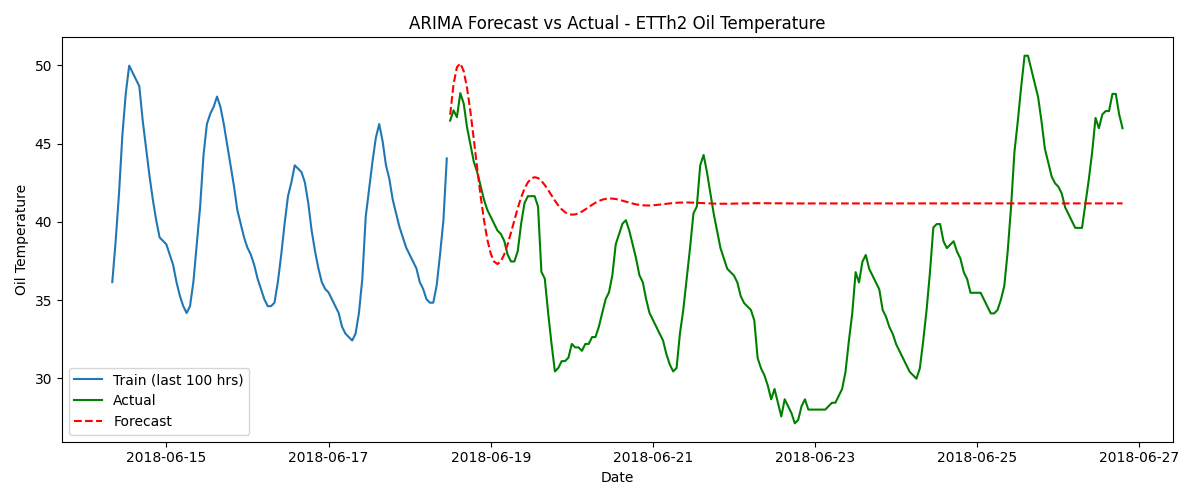
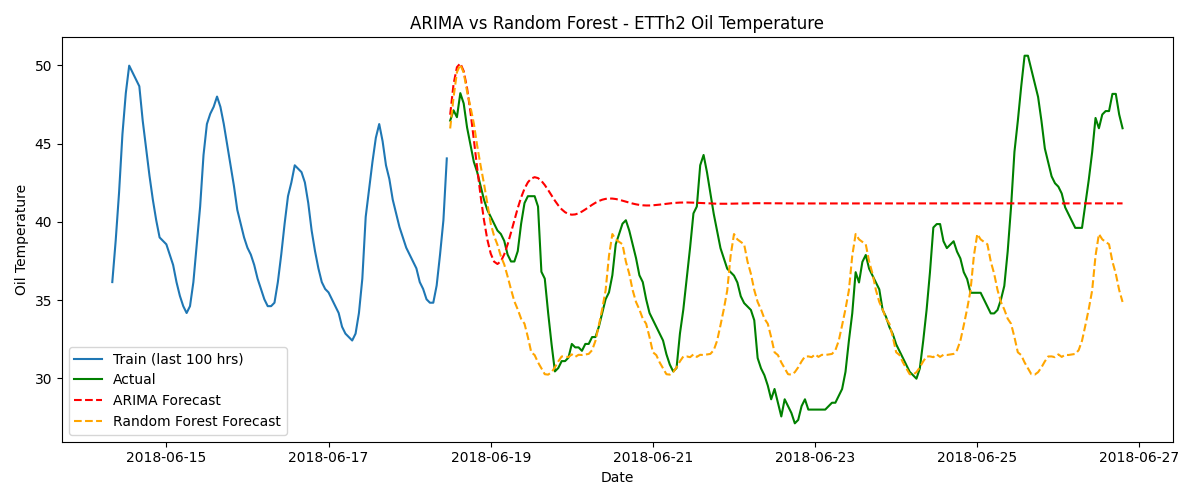
feat: arima vs RF comparison

diff --git a/main.py b/main.py
@@ -1,5 +1,6 @@
 import pandas as pd
 import matplotlib.pyplot as plt
+import numpy as np
 
 # Step 1: Load the data 
 df = pd.read_csv("data/ETTh2.csv")
@@ -50,34 +51,85 @@ print(model_fit.summary())
 
 # Step 4: Forecast the test period 
 # ask the model to predict as many steps ahead as we have test data for
-forecast = model_fit.forecast(steps=len(test))
+arima_forecast = model_fit.forecast(steps=len(test))
 
 # Step 5: Compare forecast vs actual 
 from sklearn.metrics import mean_absolute_error, mean_squared_error
-import numpy as np
 
-mae = mean_absolute_error(test, forecast)
-rmse = np.sqrt(mean_squared_error(test, forecast))
+arima_mae = mean_absolute_error(test, arima_forecast)
+arima_rmse = np.sqrt(mean_squared_error(test, arima_forecast))
 
-print(f"MAE  (avg error size):        {mae:.3f}")
-print(f"RMSE (penalizes big misses):  {rmse:.3f}")
+print(f"ARIMA MAE  (avg error size):        {arima_mae:.3f}")
+print(f"ARIMA RMSE (penalizes big misses):  {arima_rmse:.3f}")
 
-# save the numbers to a simple text file so we don't lose them
+# Step 6: Random Forest on the same data 
+from sklearn.ensemble import RandomForestRegressor
+
+# random forest can't take a raw time series, so we turn past values into
+# input columns (lag features) it can learn from
+n_lags = 5
+
+
+def make_lag_features(series, n_lags):
+    feat_df = pd.DataFrame({"y": series})
+    for lag in range(1, n_lags + 1):
+        feat_df[f"lag_{lag}"] = feat_df["y"].shift(lag)
+    return feat_df.dropna()
+
+
+feat_df = make_lag_features(ot_subset, n_lags)
+X = feat_df.drop(columns="y")
+y = feat_df["y"]
+
+split_date = test.index[0]
+X_train, X_test = X[X.index < split_date], X[X.index >= split_date]
+y_train, y_test = y[y.index < split_date], y[y.index >= split_date]
+
+rf_model = RandomForestRegressor(n_estimators=200, random_state=42)
+rf_model.fit(X_train, y_train)
+
+# forecast the test period step by step, feeding each prediction back in
+# as the "latest known value" for the next step, same idea as ARIMA above
+history = list(ot_subset[ot_subset.index < split_date].values[-n_lags:])
+rf_forecast = []
+
+lag_cols = [f"lag_{lag}" for lag in range(1, n_lags + 1)]
+
+for i in range(len(test)):
+    x_input = pd.DataFrame([history[-n_lags:][::-1]], columns=lag_cols)
+    pred = rf_model.predict(x_input)[0]
+    rf_forecast.append(pred)
+    history.append(pred)
+
+rf_forecast = pd.Series(rf_forecast, index=test.index)
+
+rf_mae = mean_absolute_error(y_test, rf_forecast)
+rf_rmse = np.sqrt(mean_squared_error(y_test, rf_forecast))
+
+print(f"Random Forest MAE:  {rf_mae:.3f}")
+print(f"Random Forest RMSE: {rf_rmse:.3f}")
+
+# Step 7: save the numbers to a simple text file so we don't lose them
 with open("results/metrics.txt", "w") as f:
-    f.write("ARIMA(2,1,2) on ETTh2 - Oil Temperature\n")
+    f.write("ETTh2 Oil Temperature - ARIMA vs Random Forest\n")
     f.write(f"Train size: {len(train)} hours\n")
-    f.write(f"Test size: {len(test)} hours\n")
-    f.write(f"MAE:  {mae:.3f}\n")
-    f.write(f"RMSE: {rmse:.3f}\n")
+    f.write(f"Test size: {len(test)} hours\n\n")
+    f.write("ARIMA(2,1,2)\n")
+    f.write(f"MAE:  {arima_mae:.3f}\n")
+    f.write(f"RMSE: {arima_rmse:.3f}\n\n")
+    f.write(f"Random Forest ({n_lags} lag features)\n")
+    f.write(f"MAE:  {rf_mae:.3f}\n")
+    f.write(f"RMSE: {rf_rmse:.3f}\n")
 
 print("Saved metrics to results/metrics.txt")
 
-# Step 6: Plot actual vs predicted so we can SEE how it did
+# Step 8: Plot actual vs both forecasts so we can SEE how they did
 plt.figure(figsize=(12, 5))
 plt.plot(train.index[-100:], train.values[-100:], label="Train (last 100 hrs)")
 plt.plot(test.index, test.values, label="Actual", color="green")
-plt.plot(test.index, forecast, label="Forecast", color="red", linestyle="--")
-plt.title("ARIMA Forecast vs Actual - ETTh2 Oil Temperature")
+plt.plot(test.index, arima_forecast, label="ARIMA Forecast", color="red", linestyle="--")
+plt.plot(test.index, rf_forecast, label="Random Forest Forecast", color="orange", linestyle="--")
+plt.title("ARIMA vs Random Forest - ETTh2 Oil Temperature")
 plt.xlabel("Date")
 plt.ylabel("Oil Temperature")
 plt.legend()
